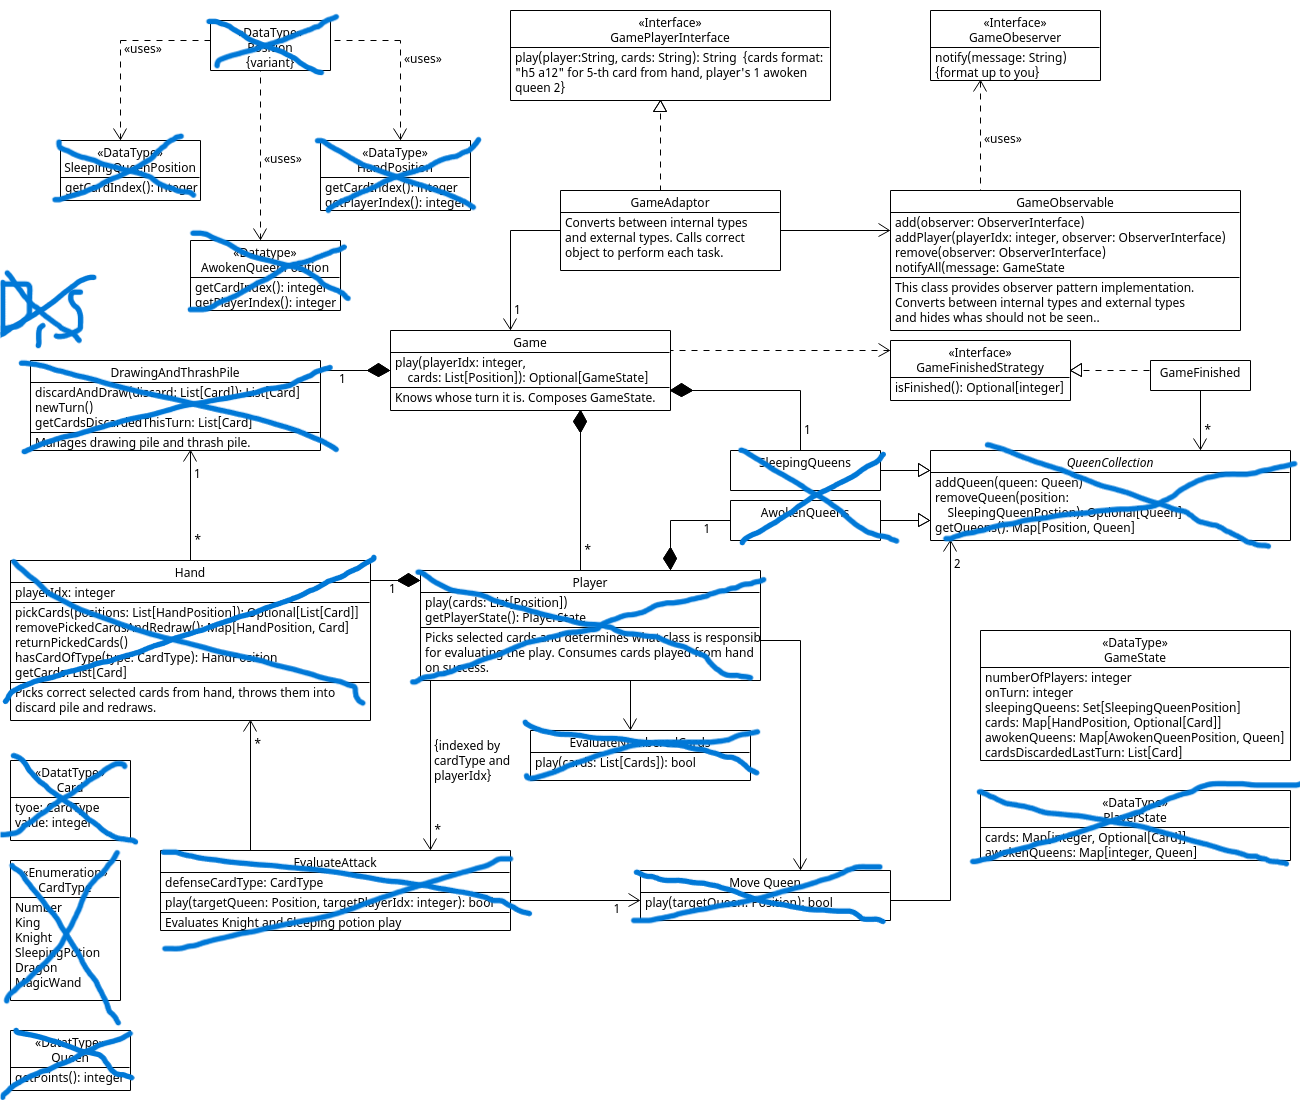
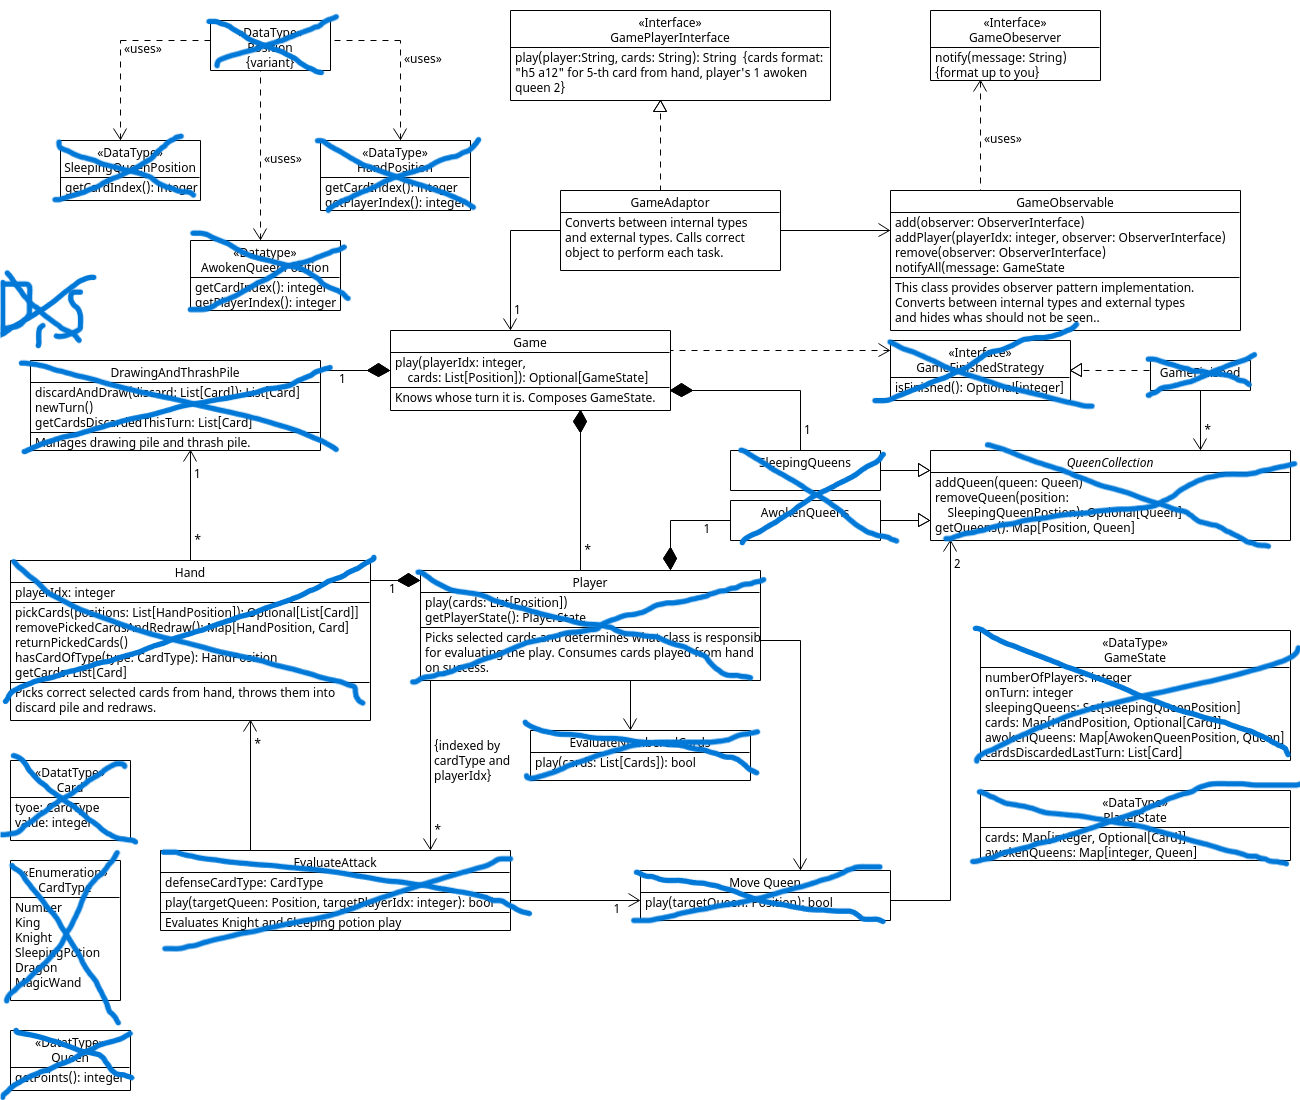
GameFinished Implementation

diff --git a/src/sleepingQueens/GameFinished.java b/src/sleepingQueens/GameFinished.java
@@ -1,11 +1,40 @@
 package sleepingQueens;
 
-import java.util.Optional;
+import java.util.*;
 
 public class GameFinished implements GameFinishedStrategy{
+
+    private final Game game;
+    private final int scoreLine;
+    private final int queenLine;
+
+    public GameFinished(Game game) {
+        this.game = game;
+        if (game.gameState.numberOfPlayers == 2 || game.gameState.numberOfPlayers == 3) {
+            scoreLine = 50;
+            queenLine = 5;
+        }
+        else if (game.gameState.numberOfPlayers == 4 || game.gameState.numberOfPlayers == 5) {
+            scoreLine = 40;
+            queenLine = 4;
+        }
+        else {
+            scoreLine = 200;
+            queenLine = 13;
+        }
+    }
     @Override
     public Optional<Integer> isFinished() {
-        int score;
+        Map<Integer, Integer> playerPoints = new HashMap<>(); // playerIdx, points
+        Map<Integer, Integer> playerQueens = new HashMap<>(); // playerIdx, queenCount
+        for (Map.Entry<AwokenQueenPosition, Queen> entry : game.gameState.awokenQueens.entrySet()) {
+            int playerIdx = entry.getKey().getPlayerIndex();
+            playerPoints.put(playerIdx, playerPoints.getOrDefault(playerIdx, 0) + entry.getValue().getPoints());
+            playerQueens.put(playerIdx, playerQueens.getOrDefault(playerIdx, 0) + 1);
+            if (playerPoints.get(playerIdx) >= scoreLine || playerQueens.get(playerIdx) >= queenLine) {
+                return Optional.of(playerIdx);
+            }
+        }
         return Optional.empty();
     }
 }

diff --git a/src/sleepingQueens/Player.java b/src/sleepingQueens/Player.java
@@ -78,7 +78,7 @@ public class Player {
                         return;
                     }
                     else {
-                        EvaluateNumberedCards evaluateNumberedCards = new EvaluateNumberedCards(this);
+                        EvaluateNumberedCards evaluateNumberedCards = new EvaluateNumberedCards();
                         if (!evaluateNumberedCards.play(List.of(firstCard.get(), secondCard.get()))) {
                             return;
                         }
